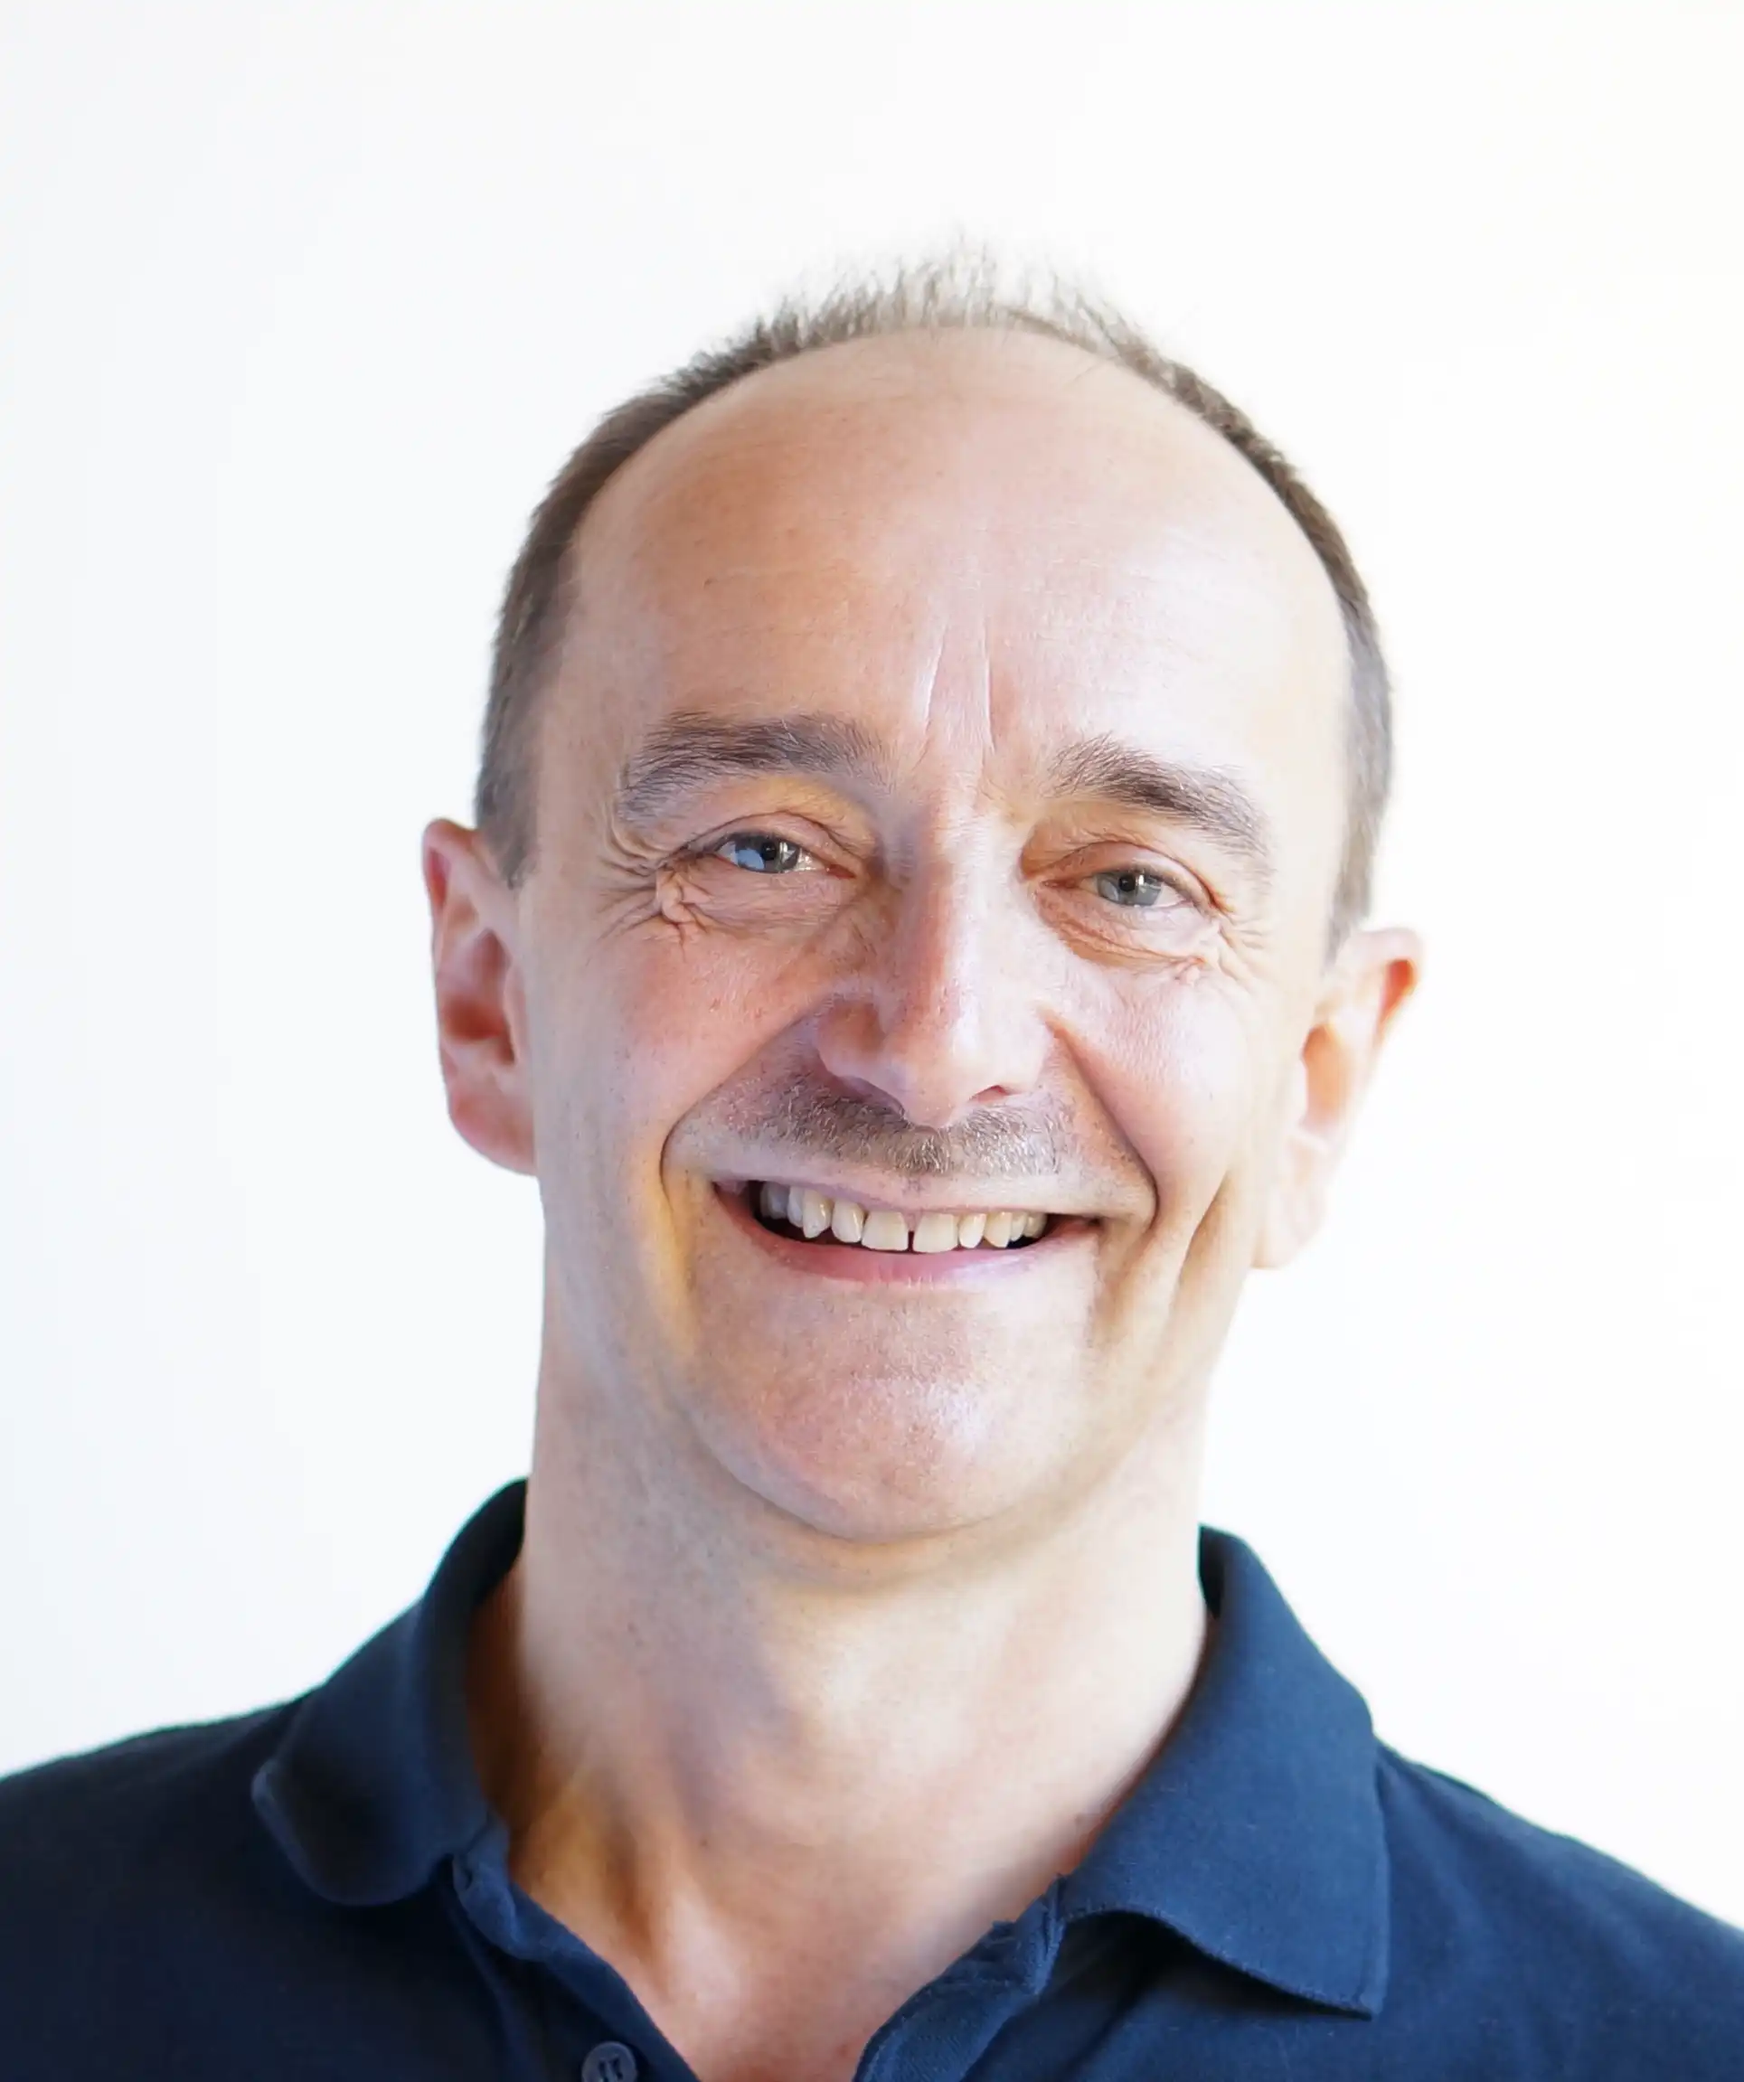
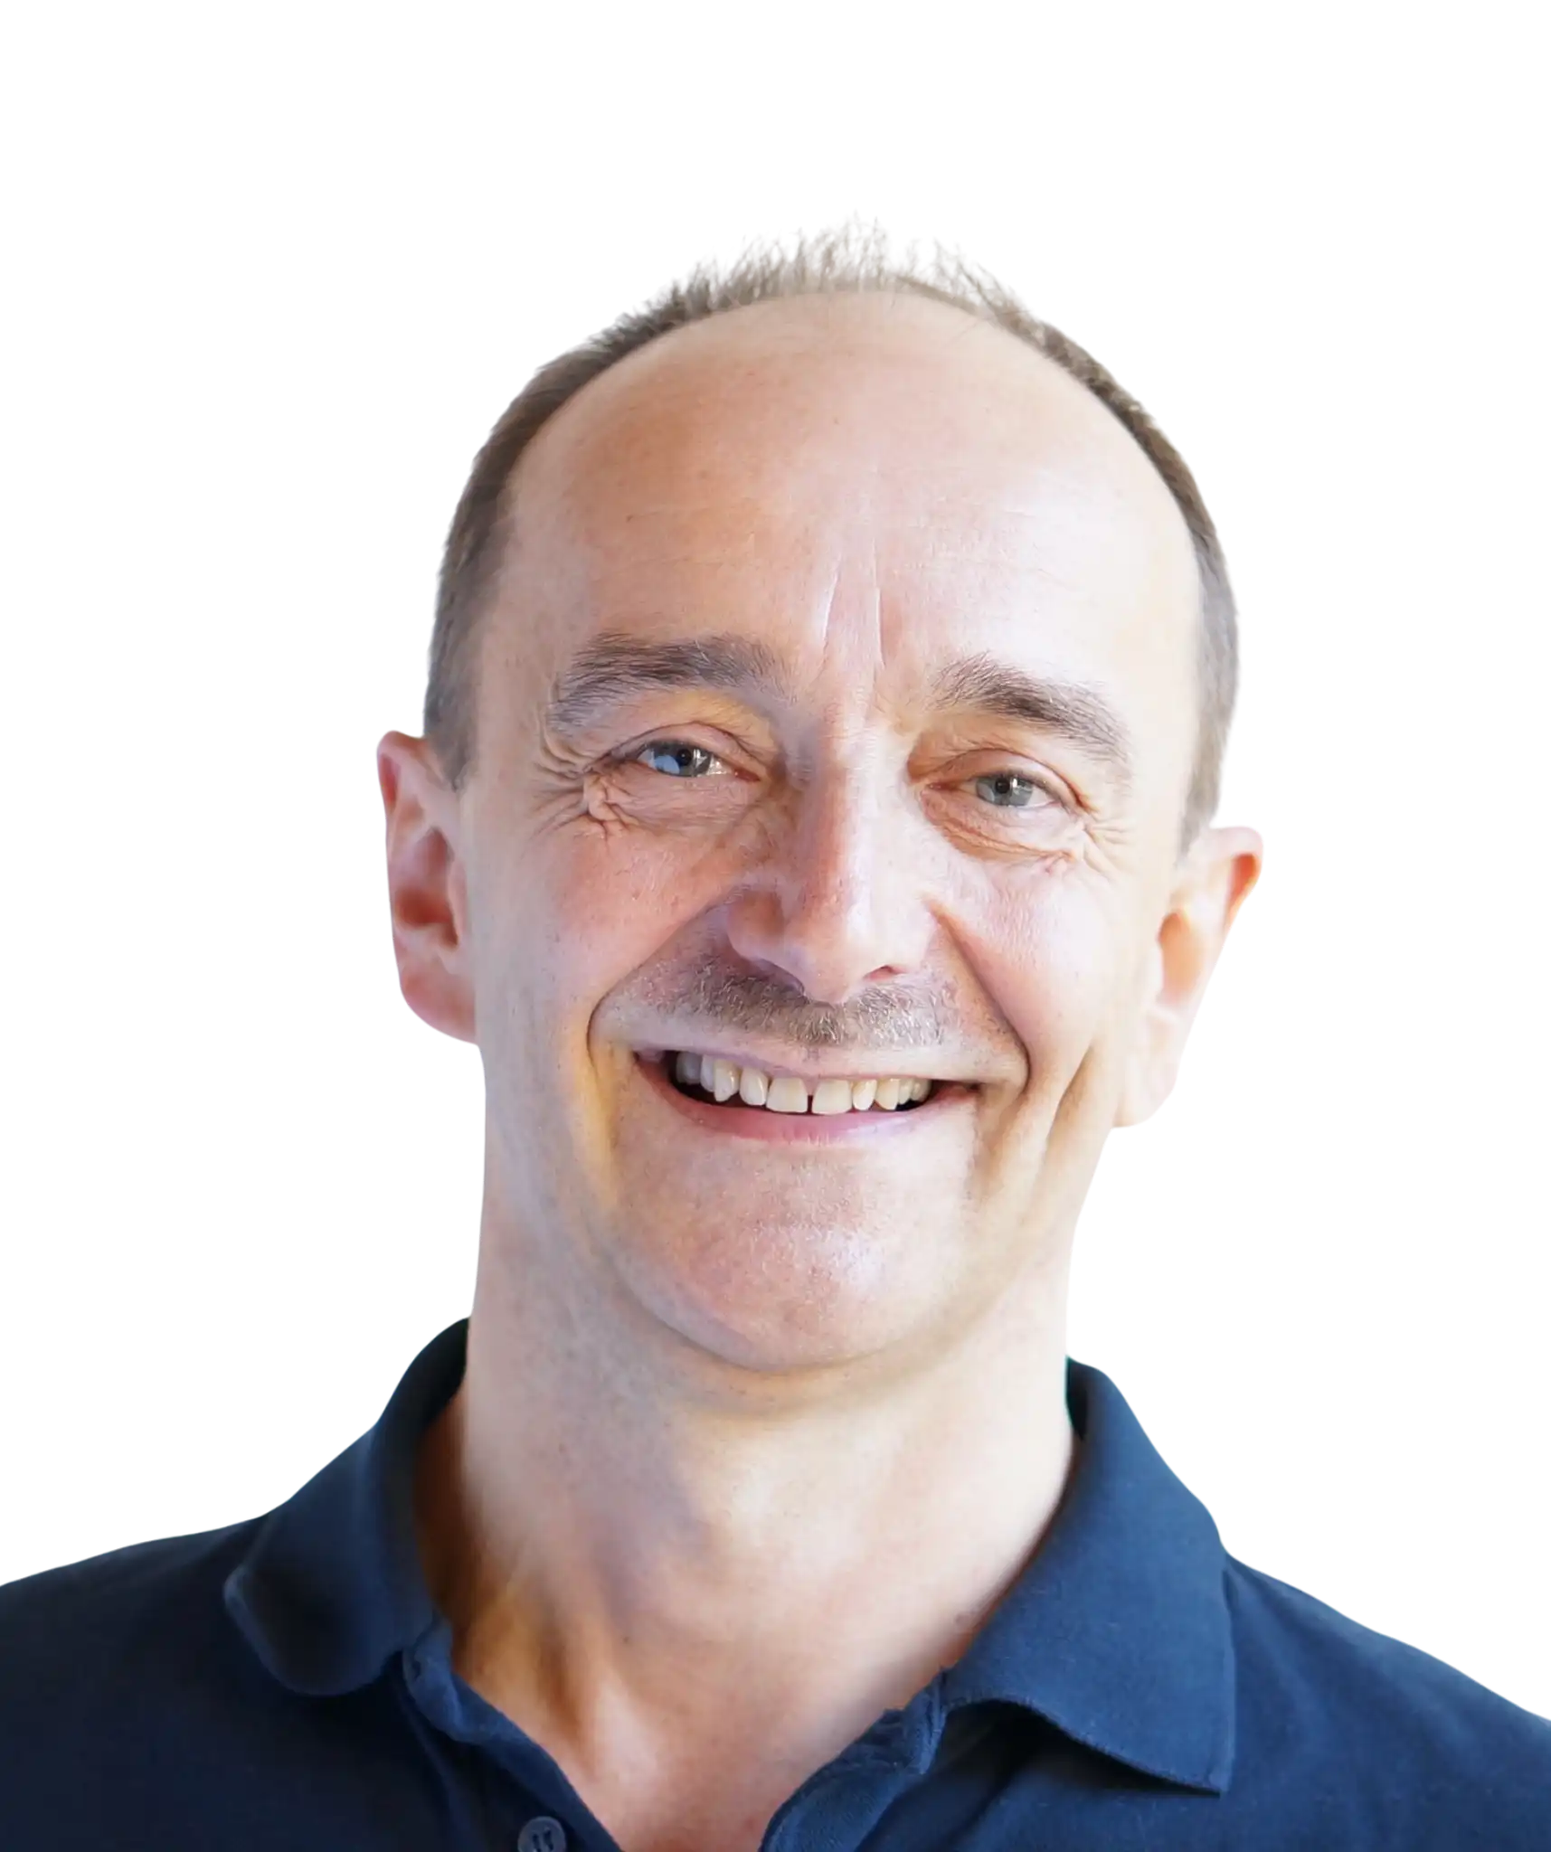
give many images transparent background

diff --git a/_pages/04-about.md b/_pages/04-about.md
@@ -30,7 +30,7 @@ erfahrung:
      betriebswirtschaftlichem Verständnis. Dolmetscher zwischen Fachbereich und IT.'
 
 arc42:
-    - image_path: /images/about/arc42-logo.jpg
+    - image_path: /images/about/arc42-logo.png
       alt: arc42
       title: (Mit-)Gründer von arc42.
       excerpt: '**[arc42](https://arc42.org), das** Template zur Kommunikation und Dokumentation von Softwarearchitekturen.

diff --git a/_addons/06-arc42-und-aim42.md b/_addons/06-arc42-und-aim42.md
@@ -7,7 +7,7 @@ excerpt: "arc42 und aim42..."
 classes: wide
 ---
 
-## ![image-left](/images/arc42-logo-150px.jpg) **Bessere Systeme bauen**
+## ![image-left](/images/arc42-logo-150px.png) **Bessere Systeme bauen**
 arc42 unterstützt bei Entwicklung und Kommunikation von Softwarearchitektur:
 
 * Effektive Kommunikation von Architekturen und Architekturentscheidungen
